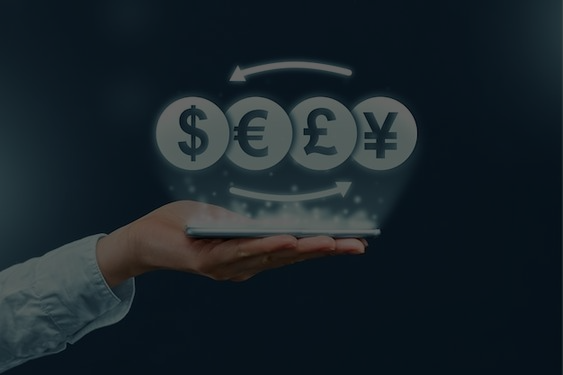
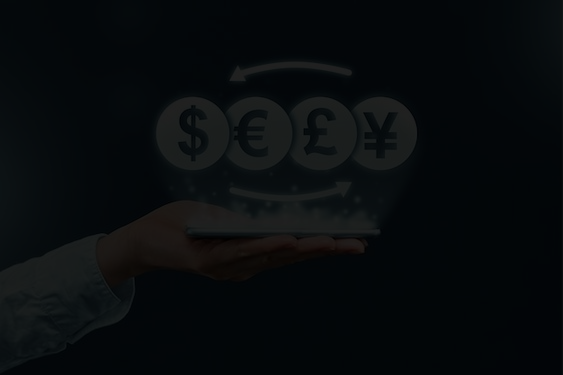
change login to home page

diff --git a/lib/HomePage.dart b/lib/HomePage.dart
@@ -1,4 +1,6 @@
 import 'package:curren_see/Page1.dart';
+import 'package:curren_see/Page2.dart';
+import 'package:curren_see/Page3.dart';
 import 'package:flutter/material.dart';
 import 'package:smooth_page_indicator/smooth_page_indicator.dart';
 
@@ -16,13 +18,8 @@ class Login extends StatelessWidget {
             controller: _controller,
             children: [
               FirstPage(),
-              Container(
-                color: Colors.purple,
-              ),
-
-              Container(
-                color: Colors.yellow,
-              ),
+              SecondPage(),
+              ThirdPage(),
             ],
 
           ),

diff --git a/lib/Page3.dart b/lib/Page3.dart
@@ -1,7 +1,7 @@
 import 'package:flutter/material.dart';
 
-class SecondPage extends StatelessWidget {
-  const SecondPage({super.key});
+class ThirdPage extends StatelessWidget {
+  const ThirdPage({super.key});
 
   @override
   Widget build(BuildContext context) {
@@ -13,7 +13,7 @@ class SecondPage extends StatelessWidget {
         decoration: BoxDecoration(
             image: DecorationImage(
                 image: AssetImage(
-                    'images/currency2.png'
+                    'images/currency3.png'
 
                 ),
                 fit: BoxFit.cover

diff --git a/lib/main.dart b/lib/main.dart
@@ -1,4 +1,4 @@
-import 'package:curren_see/Login.dart';
+import 'package:curren_see/HomePage.dart';
 import 'package:flutter/material.dart';
 
 void main() {
